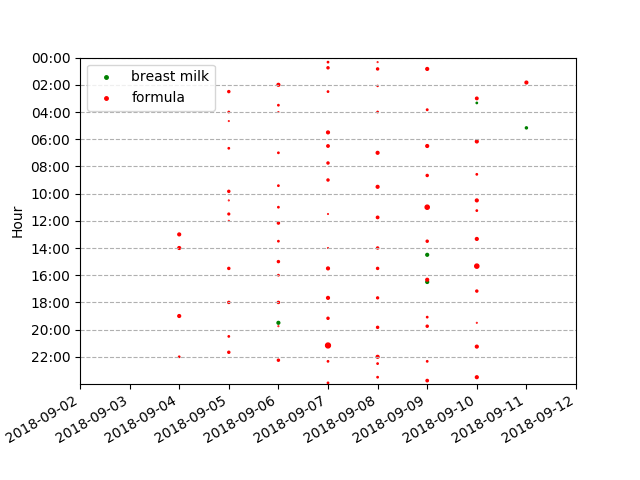
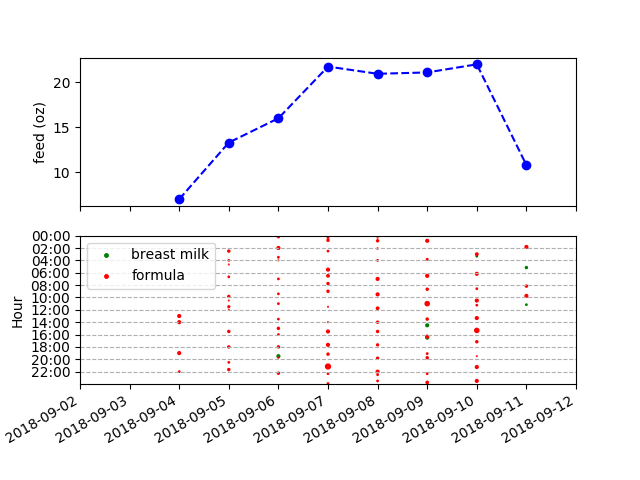
add quantity plot

diff --git a/analyze.py b/analyze.py
@@ -17,7 +17,17 @@ df = pd.read_csv(
     keep_default_na=False)
 df.rename(columns={'Volume (oz)': 'Vol'}, inplace=True)
 
-# plot
+# plot daily feeding quantity
+ax1 = plt.subplot(211)
+dates = df.index.date
+by_date = df.groupby(dates).sum()
+# bar plot doesn't work out of box because the x-axis is date and it is measured
+# with respect to 1970
+by_date.Vol.plot(style='bo--')
+plt.ylabel('feed (oz)')
+
+# plot daily feeding pattern
+ax2 = plt.subplot(212, sharex=ax1)
 bm = df.loc[df.BM]
 formula = df.loc[df.BM == False]
 for d, color, text in zip([bm, formula], ['g', 'r'],
@@ -31,12 +41,11 @@ for d, color, text in zip([bm, formula], ['g', 'r'],
 #plt.gca().set_ylabel('Hour')
 plt.ylabel('Hour')
 plt.gcf().autofmt_xdate()
-ax = plt.gca()
-ax.set_xlim([min(dates) - day * 2, max(dates) + day])
+ax2.set_xlim([min(dates) - day * 2, max(dates) + day])
 hours = [datetime.time(i) for i in range(0, 24, 2)]
-ax.set_ylim([hours[0], datetime.time(23, 59, 59)])
+ax2.set_ylim([hours[0], datetime.time(23, 59, 59)])
 plt.yticks(hours)
-ax.grid(True, axis='y', linestyle='--')
-ax.invert_yaxis()
+ax2.grid(True, axis='y', linestyle='--')
+ax2.invert_yaxis()
 plt.legend(loc='upper left')
 plt.savefig('image.png')
